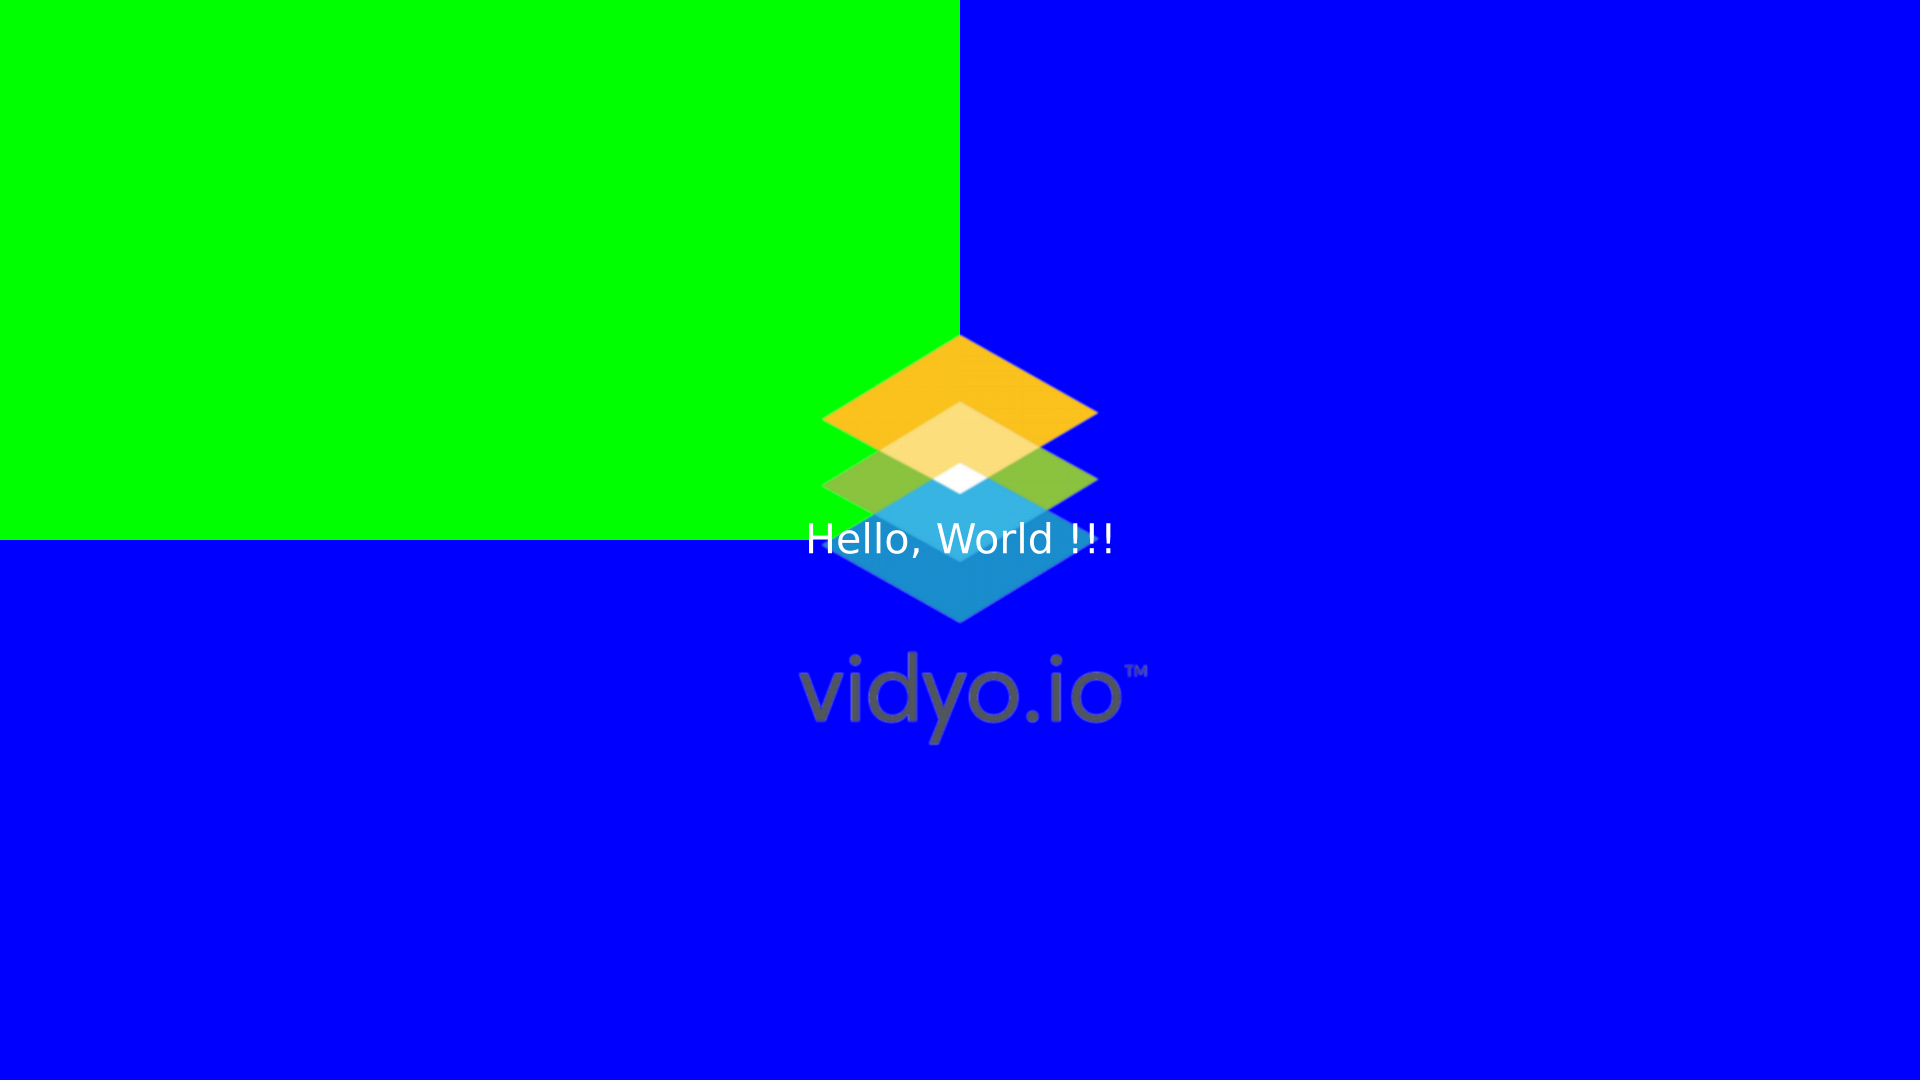
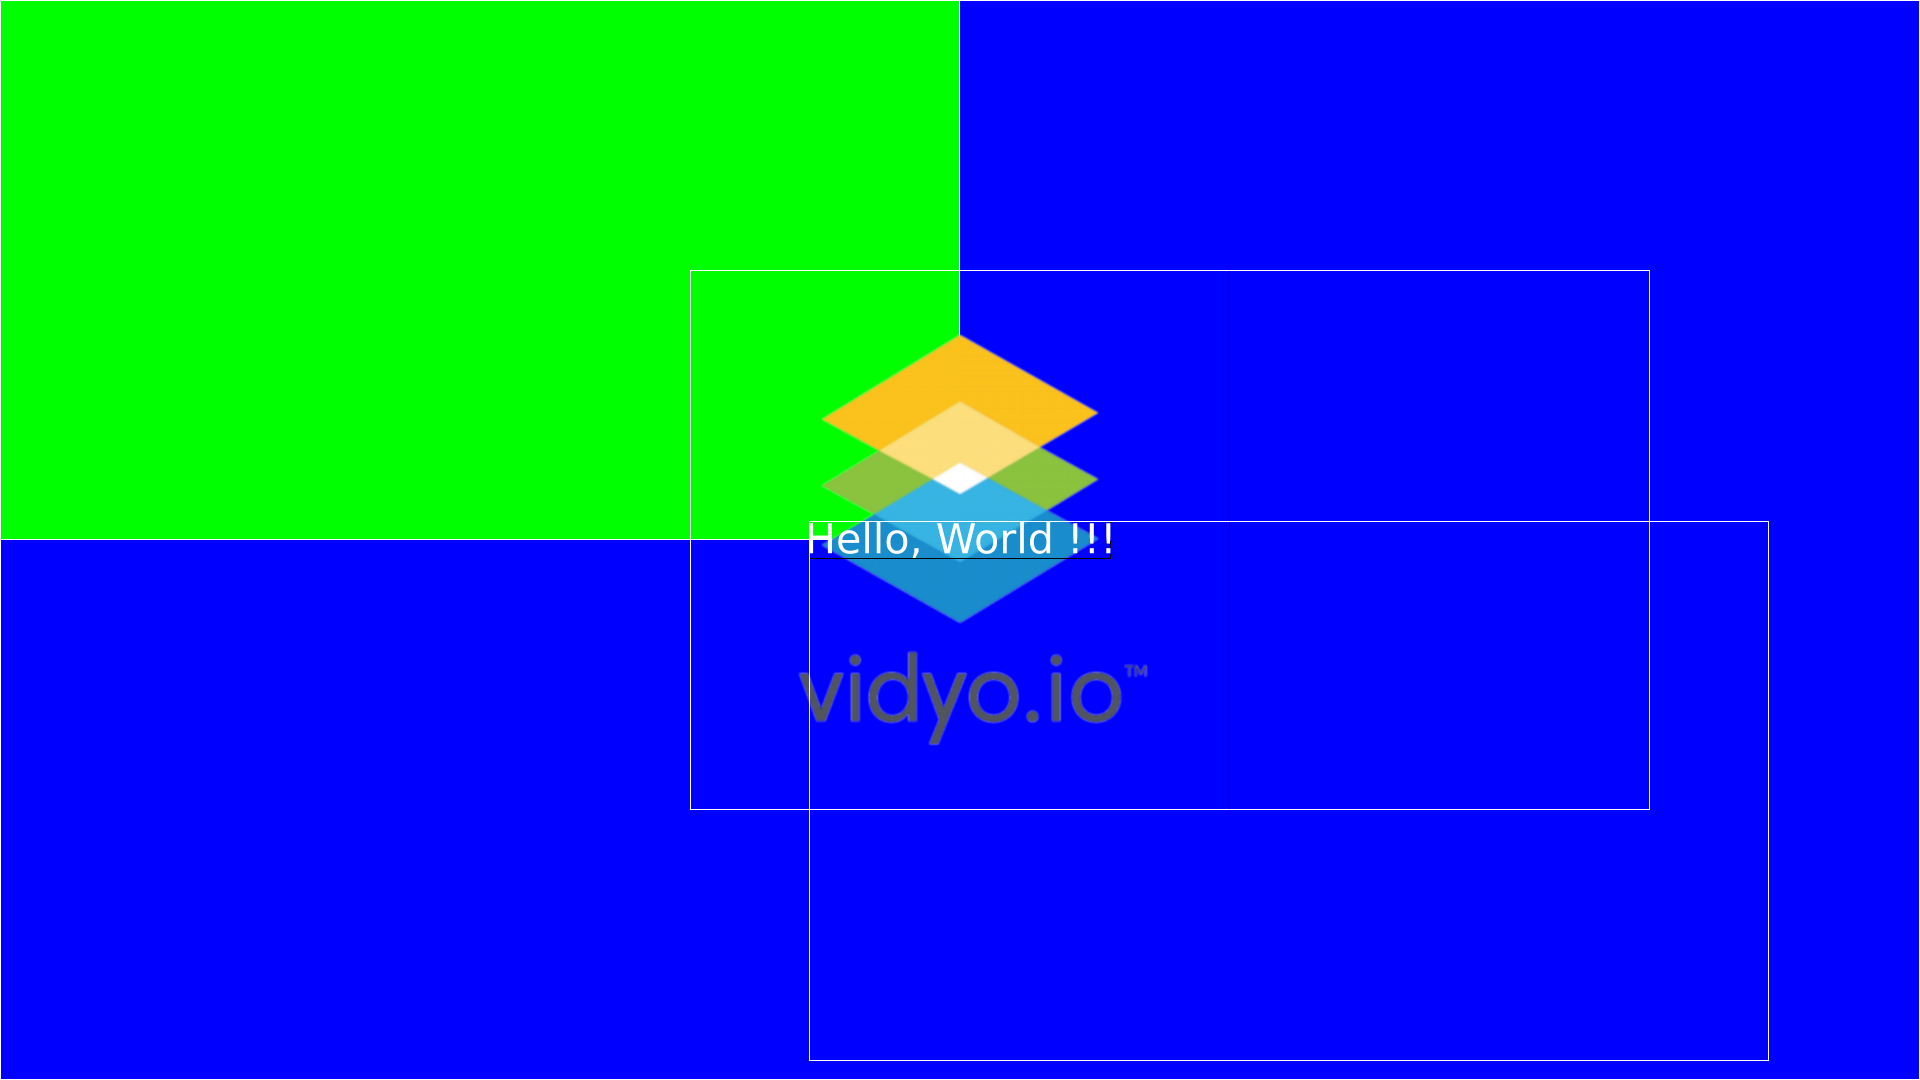
no message

diff --git a/src/sprite.rs b/src/sprite.rs
@@ -31,6 +31,11 @@ pub fn render_to_canvas(raw_pixels_ptr:*const u32, outer_frame:&FixRect, inner_f
             if x + outer_frame.pos.x >= screen_info.xres {
                 break;
             }
+
+            if x == 0 || y == 0 {
+
+            }
+
             let dst_offset = start_offset + (y + dst_y_offset) * screen_info.xres + (x + dst_x_offset);
             let src_offset = y * inner_frame.size.width + x;
             unsafe {
@@ -55,34 +60,42 @@ pub fn render_to_canvas(raw_pixels_ptr:*const u32, outer_frame:&FixRect, inner_f
 
                     *canvas_ptr.offset(dst_offset as isize) = new_pixel;
                 }
-                    else {
-                        let src_r = src_r as f32;
-                        let src_g = src_g as f32;
-                        let src_b = src_b as f32;
-                        let src_a = src_a as f32;
+                else if src_a as u32 != 0 {
+                    let src_r = src_r as f32;
+                    let src_g = src_g as f32;
+                    let src_b = src_b as f32;
+                    let src_a = src_a as f32;
 
-                        let right_a = src_a / 0xFF as f32;
-                        let left_a = 1.0 - right_a;
+                    let right_a = src_a / 0xFF as f32;
+                    let left_a = 1.0 - right_a;
 
-                        let r = src_r * right_a + dst_r * left_a;
-                        let g = src_g * right_a + dst_g * left_a;
-                        let b = src_b * right_a + dst_b * left_a;
+                    let r = src_r * right_a + dst_r * left_a;
+                    let g = src_g * right_a + dst_g * left_a;
+                    let b = src_b * right_a + dst_b * left_a;
 
-                        let new_pixel =
-                            ((r as u32) << screen_info.pixel_def.red_offset) |
-                            ((g as u32) << screen_info.pixel_def.green_offset) |
-                            ((b as u32) << screen_info.pixel_def.blue_offset) |
-                                (0xFF << screen_info.pixel_def.transp_offset);
+                    let new_pixel =
+                        ((r as u32) << screen_info.pixel_def.red_offset) |
+                        ((g as u32) << screen_info.pixel_def.green_offset) |
+                        ((b as u32) << screen_info.pixel_def.blue_offset) |
+                            (0xFF << screen_info.pixel_def.transp_offset);
 
-//                        let unit_a = src_a / 0xFF as f32;
-//                        let new_pixel =
-//                            (((unit_a * src_r + (1.0 - unit_a) * dst_r) as u32) << screen_info.pixel_def.red_offset) |
-//                                (((unit_a * src_g + (1.0 - unit_a) * dst_g) as u32) << screen_info.pixel_def.green_offset) |
-//                                (((unit_a * src_b + (1.0 - unit_a) * dst_b) as u32) << screen_info.pixel_def.blue_offset) |
-//                                (0xFF << screen_info.pixel_def.transp_offset);
+                    *canvas_ptr.offset(dst_offset as isize) = new_pixel;
+                } else if screen_info.show_debug_info && (x == 0 || y == 0 || x == inner_frame.size.width - 1 || y == inner_frame.size.height - 1) {
+                    *canvas_ptr.offset(dst_offset as isize) = 0xFF000000;
+                }
+            }
+        }
+    }
 
-                        *canvas_ptr.offset(dst_offset as isize) = new_pixel;
+    if screen_info.show_debug_info {
+        for y in 0..outer_frame.size.height {
+            for x in 0..outer_frame.size.width {
+                if x == 0 || y == 0 || x == outer_frame.size.width - 1 || y == outer_frame.size.height - 1 {
+                    unsafe {
+                        let dst_offset = start_offset + (y + dst_y_offset) * screen_info.xres + (x + dst_x_offset);
+                        *canvas_ptr.offset(dst_offset as isize) = 0xFFFFFFFF;
                     }
+                }
             }
         }
     }

diff --git a/src/dimension.rs b/src/dimension.rs
@@ -23,6 +23,12 @@ pub struct AnchorPoint {
 }
 
 #[derive(Debug, Copy, Clone)]
+pub struct Gravity {
+    pub x: f32,
+    pub y: f32,
+}
+
+#[derive(Debug, Copy, Clone)]
 pub struct FixPos {
     pub x: u32,
     pub y: u32,
@@ -51,3 +57,24 @@ pub const FLOAT_RECT_FULL : FloatRect = FloatRect {pos : FLOAT_POS_ZERO, size : 
 pub const FIX_SIZE_ZERO : FixSize = FixSize {width : 0, height : 0};
 pub const FIX_POS_ZERO : FixPos = FixPos {x : 0, y : 0};
 pub const FIX_RECT_ZERO : FixRect = FixRect {pos : FIX_POS_ZERO, size : FIX_SIZE_ZERO};
+
+pub const ANCHOR_POINT_CENTER:AnchorPoint = AnchorPoint {x : 0.5, y : 0.5};
+pub const ANCHOR_POINT_TOP_LEFT:AnchorPoint = AnchorPoint {x : 0.0, y : 0.0};
+pub const ANCHOR_POINT_MIDDLE_LEFT:AnchorPoint = AnchorPoint {x : 0.0, y : 0.5};
+pub const ANCHOR_POINT_BOTTOM_LEFT:AnchorPoint = AnchorPoint {x : 0.0, y : 1.0};
+pub const ANCHOR_POINT_TOP_RIGHT:AnchorPoint = AnchorPoint {x : 1.0, y : 0.0};
+pub const ANCHOR_POINT_MIDDLE_RIGHT:AnchorPoint = AnchorPoint {x : 0.1, y : 0.5};
+pub const ANCHOR_POINT_BOTTOM_RIGHT:AnchorPoint = AnchorPoint {x : 1.0, y : 1.0};
+pub const ANCHOR_POINT_TOP_CENTER:AnchorPoint = AnchorPoint {x : 0.5, y : 0.0};
+pub const ANCHOR_POINT_BOTTOM_CENTER:AnchorPoint = AnchorPoint {x : 0.5, y : 1.0};
+
+pub const GRAVITY_CENTER:Gravity = Gravity {x : 0.5, y : 0.5};
+pub const GRAVITY_TOP_LEFT:Gravity = Gravity {x : 0.0, y : 0.0};
+pub const GRAVITY_MIDDLE_LEFT:Gravity = Gravity {x : 0.0, y : 0.5};
+pub const GRAVITY_BOTTOM_LEFT:Gravity = Gravity {x : 0.0, y : 1.0};
+pub const GRAVITY_TOP_RIGHT:Gravity = Gravity {x : 1.0, y : 0.0};
+pub const GRAVITY_MIDDLE_RIGHT:Gravity = Gravity {x : 0.1, y : 0.5};
+pub const GRAVITY_BOTTOM_RIGHT:Gravity = Gravity {x : 1.0, y : 1.0};
+pub const GRAVITY_TOP_CENTER:Gravity = Gravity {x : 0.5, y : 0.0};
+pub const GRAVITY_BOTTOM_CENTER:Gravity = Gravity {x : 0.5, y : 1.0};
+

diff --git a/examples/simple_sprite.rs b/examples/simple_sprite.rs
@@ -24,19 +24,18 @@ fn main() {
 
 fn run() -> Result<(), ScreenWriterError> {
     #[cfg(feature = "simulator")]
-    let fb = fb2d::screen_writer_for_png("frame_buffer.png", 1920, 1080)?;
+    let mut fb = fb2d::screen_writer_for_png("frame_buffer.png", 1920, 1080)?;
     #[cfg(not(feature = "simulator"))]
     let mut fb = fb2d::screen_writer_for_framebuffer("/dev/fb0")?;
 
     #[cfg(not(feature = "simulator"))]
     fb2d::set_graphics_mode();
-
+    fb.screen_info.show_debug_info = true;
 
 
     let mut sprite1 = RectSprite::new(fb2d::Color::green());
     let mut node1 = Node::new_rect(FloatRect{pos:FLOAT_POS_ZERO, size:FLOAT_SIZE_HALF}, sprite1);
-    node1.anchor_point.x = 0.0;
-    node1.anchor_point.y = 0.0;
+    node1.anchor_point = ANCHOR_POINT_TOP_LEFT;
 
 
     let mut sprite2=  TextureSprite::new_for_texture("mmm.png");
@@ -60,18 +59,6 @@ fn run() -> Result<(), ScreenWriterError> {
     scene.root_node = cell::Cell::new(Some(background_node));
     scene.writer = Some(Box::new(fb));
 
-
-
-
-//    let node2 = Node::node_from_texture(0.5, 0.5, "mmm.png");
-//    node2.pos.x = 0.0;
-//    node2.pos.y = 0.0;
-//    node2.anchorPoint.x = 0.0;
-//    node2.anchorPoint.y = 0.0;
-//    scene.root_node.add_node(node2);
-
-//    let node3 = Node::node_from_text(1.0, 0.5, "Hello, World !!!", "DejaVuSans.ttf");
-//    scene.root_node.add_node(node3);
 
     #[cfg(feature = "simulator")]
     scene.run_once();

diff --git a/src/screen_writer.rs b/src/screen_writer.rs
@@ -21,6 +21,7 @@ pub struct ScreenInfo {
     pub yres:u32,
     pub screen_size:usize,
     pub pixel_def:PixelDef,
+    pub show_debug_info:bool,
 }
 
 #[derive(Debug)]
@@ -145,7 +146,8 @@ impl FrameBuffer {
                     green_offset : vinfo.green.offset,
                     blue_offset : vinfo.blue.offset,
                     transp_offset : vinfo.transp.offset,
-                }
+                },
+                show_debug_info : false,
             },
             var_screen_info: vinfo,
         };
@@ -216,7 +218,8 @@ impl<'a> FrameBufferSimulatorPNG<'a> {
                     green_offset : vinfo.green.offset,
                     blue_offset : vinfo.blue.offset,
                     transp_offset : vinfo.transp.offset,
-                }
+                },
+                show_debug_info : false,
             },
             file_name: file_path,
         };
